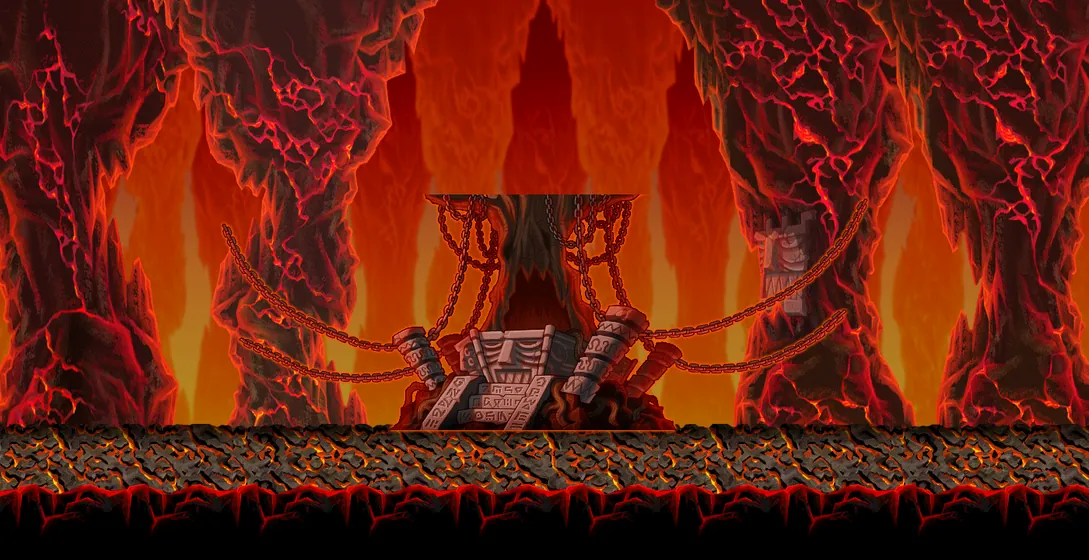
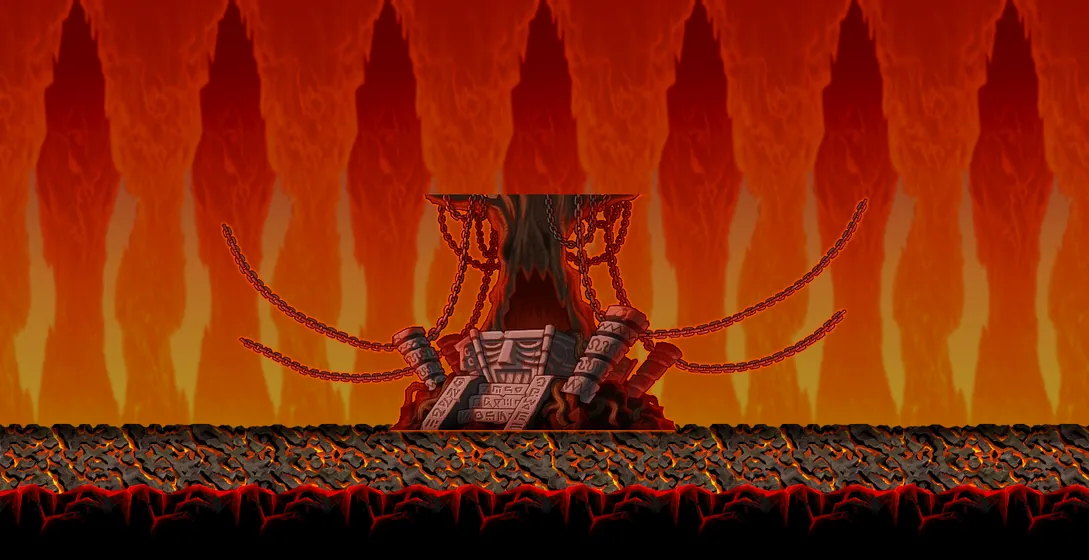
Duel: Zakum background without the extra side pillars

diff --git a/duel.css b/duel.css
@@ -49,7 +49,7 @@
 .bd-arena.sd::after { content: ""; position: absolute; inset: 0; background: rgba(255, 90, 20, .2); pointer-events: none; z-index: 1; }
 /* maps: the real background art (Map.wz back layers) + one platform from the same map */
 .bd-arena.m-elnath { background-color: #b9bfe0; background-image: url(media/duel/bg_elnath.webp); }
-.bd-arena.m-zakum  { background-color: #3a0a06; background-image: url(media/duel/bg_zakum.webp?v=2); }
+.bd-arena.m-zakum  { background-color: #3a0a06; background-image: url(media/duel/bg_zakum.webp?v=3); }
 .bd-arena.m-ludi   { background-color: #3651d0; background-image: url(media/duel/bg_ludi.webp); }
 .bd-arena.m-sleepy { background-color: #1c1a12; background-image: url(media/duel/bg_sleepy.webp); }
 .bd-plat { position: absolute; left: 50%; transform: translateX(-50%); z-index: 1; pointer-events: none; max-width: none; }

diff --git a/index.html b/index.html
@@ -9,7 +9,7 @@
 <link href="https://fonts.googleapis.com/css2?family=Ubuntu:wght@500;700&display=swap" rel="stylesheet">
 <link rel="stylesheet" href="draw.css?v=13">
 <link rel="stylesheet" href="ww.css?v=1">
-<link rel="stylesheet" href="duel.css?v=9">
+<link rel="stylesheet" href="duel.css?v=10">
 <link rel="stylesheet" href="extras.css?v=46">
 <style>
 :root {
